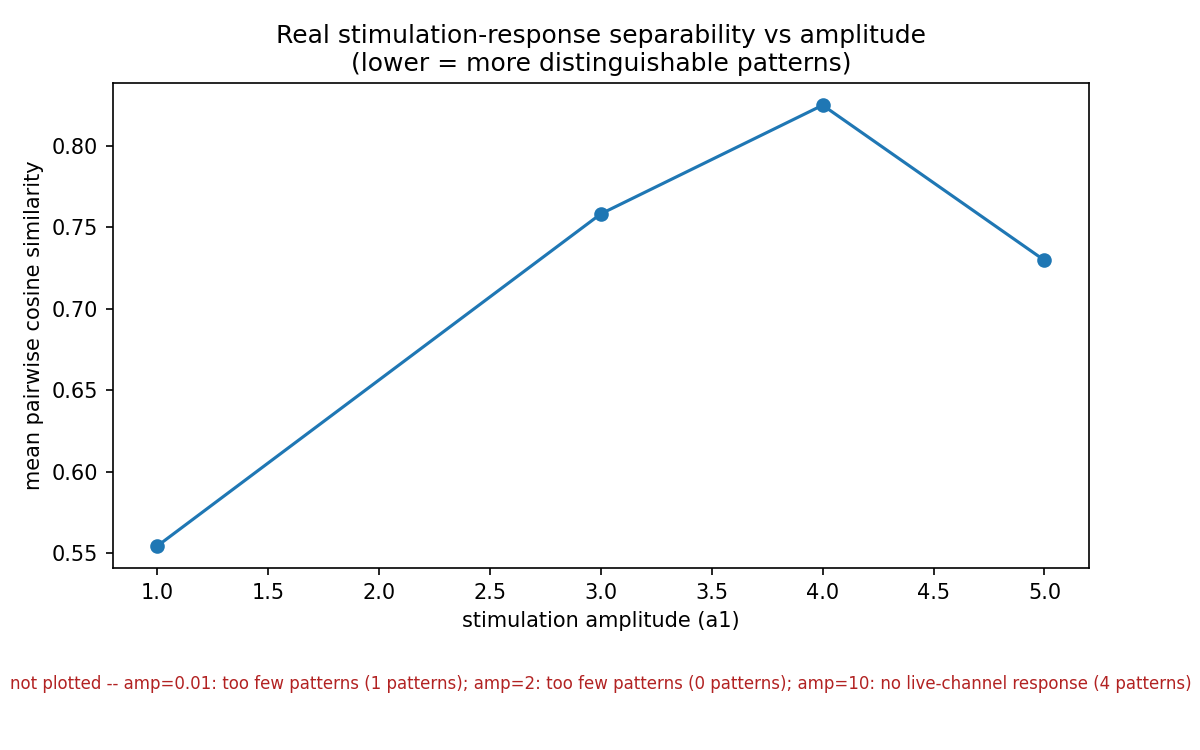
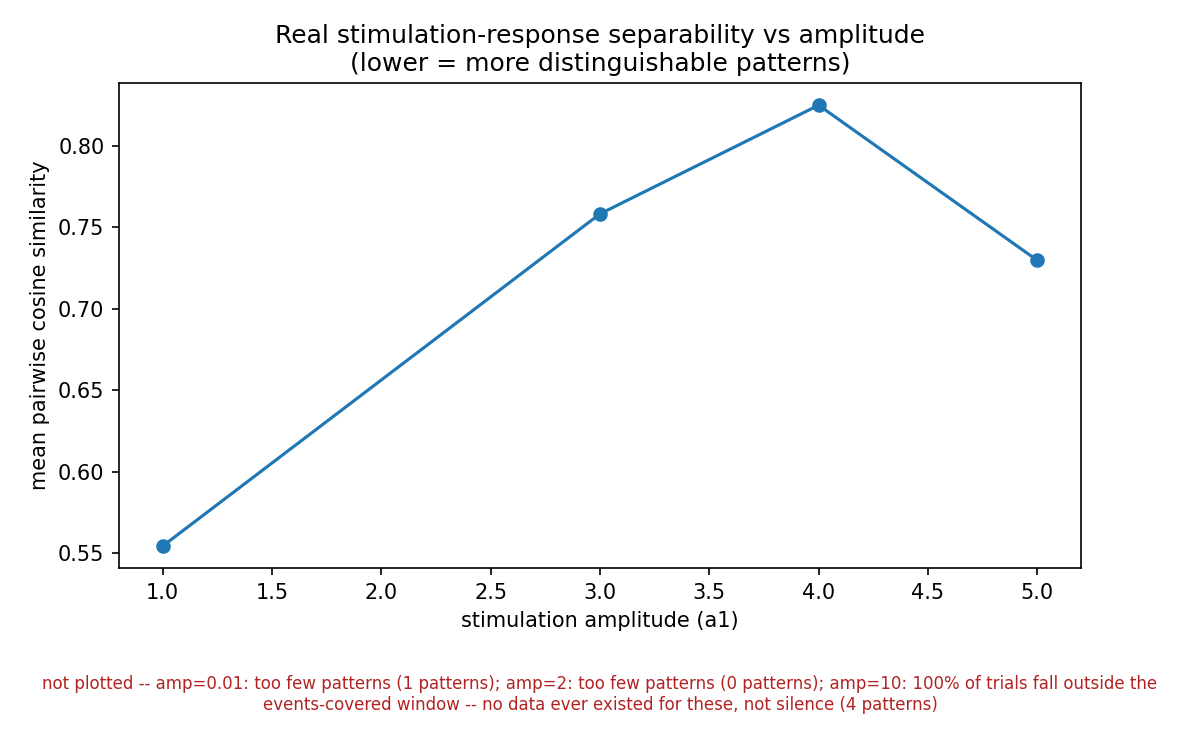
Add blanking_check.py; correct amp-10 finding, it's a data gap, not blanking
blanking_check.py looks up raw 30kHz voltage around the amplitude-10
"zero response" stim onsets via fs437_segment_index.parquet (bounded
probe-based binary search per segment, never loading the full raw
table -- some segments run up to 123M rows). Result: zero raw samples
exist for any of the 1,145 trials across all 4 qualifying patterns --
they all occurred 12-13.5h before the recording that produced the
events table even started. Not stimulation-artifact blanking, not
genuine silence -- there's no data of any kind for that window.

amplitude_separability.py now detects and reports this condition
(all-zero-response trials falling outside the events-covered window)
instead of attributing an unverified cause. README corrected to match;
the earlier "likely stimulation-artifact blanking" claim was wrong.

Claude-Session: https://claude.ai/code/session_01MD2uqo9Lq1biQAmck1mQKK

diff --git a/blanking_check.py b/blanking_check.py
@@ -1,0 +1,201 @@
+"""Are the amplitude-10 "zero response" patterns evidence of stimulation-
+artifact blanking, or genuine silence? Check the raw 30kHz voltage traces
+around their stim onsets.
+
+Raw samples are looked up via fs437_segment_index.parquet, never by loading
+fs437_raw.hdf5 in full. The index's (electrode, t_start, t_end) columns give
+a coarse (row_start, row_end) row range per electrode-segment, but segment
+sizes are extremely skewed (median 181 rows, max 123,298,967 -- more than
+half the 238M-row table) and row ranges overlap across electrodes (they're
+positions in a single interleaved table, not a per-electrode partition), so
+reading a whole matching segment is not safe. locate_rows() instead does a
+bounded probe-based binary search within a candidate segment's row range to
+narrow down to the sub-range actually covering the target time window,
+using only small reads (a few thousand rows each), before doing the real
+read.
+"""
+from pathlib import Path
+import numpy as np
+import pandas as pd
+import matplotlib.pyplot as plt
+from load_data import load_events, load_stimulations
+from amplitude_separability import uniform_amplitude_patterns
+
+RAW = Path("fs437_raw.hdf5")
+RAW_KEY = "/fs437_wholelife_raw"
+SEGMENT_INDEX = Path("fs437_segment_index.parquet")
+PRE_S, POST_S = 0.5, 0.5
+MIN_TRIALS = 100
+TARGET_AMP = 10
+EXAMPLES_PER_PATTERN = 5
+PROBE_SIZE = 2000
+MAX_PROBE_ITERS = 25
+FIG = Path("figures/blanking_check.png")
+
+
+def candidate_segments(idx, electrode, center_time):
+    """Segment-index rows for this electrode whose [t_start, t_end] overlaps
+    the [center_time-PRE_S, center_time+POST_S] window."""
+    lo = center_time - pd.Timedelta(seconds=PRE_S)
+    hi = center_time + pd.Timedelta(seconds=POST_S)
+    return idx[(idx["electrode"] == electrode) & (idx["t_start"] <= hi) & (idx["t_end"] >= lo)]
+
+
+def locate_rows(row_start, row_end, target_lo_ns, target_hi_ns):
+    """Bounded probe-based binary search: narrow [row_start, row_end) down to
+    a sub-range likely to contain rows in [target_lo_ns, target_hi_ns], reading
+    only small PROBE_SIZE chunks -- never the full segment."""
+    lo, hi = int(row_start), int(row_end)
+    if hi - lo <= PROBE_SIZE * 3:
+        return lo, hi
+    for _ in range(MAX_PROBE_ITERS):
+        if hi - lo <= PROBE_SIZE * 3:
+            break
+        mid = (lo + hi) // 2
+        probe = pd.read_hdf(RAW, key=RAW_KEY, start=mid, stop=mid + PROBE_SIZE)
+        if len(probe) == 0:
+            break
+        t = probe["time"].values.astype("datetime64[ns]").astype("int64")
+        tmin, tmax = int(t.min()), int(t.max())
+        if tmax < target_lo_ns:
+            lo = mid
+        elif tmin > target_hi_ns:
+            hi = mid
+        else:
+            lo = max(row_start, mid - PROBE_SIZE * 2)
+            hi = min(row_end, mid + PROBE_SIZE * 2)
+            break
+    return lo, hi
+
+
+def raw_window(idx, electrode, center_time):
+    """Raw (time, voltage_uv) samples for one electrode in
+    [center_time-PRE_S, center_time+POST_S], or an empty DataFrame if none
+    exist -- found entirely via the segment index, no full-table scan."""
+    segs = candidate_segments(idx, electrode, center_time)
+    if segs.empty:
+        return pd.DataFrame(columns=["time", "voltage_uv"])
+
+    lo_ns = int((center_time - pd.Timedelta(seconds=PRE_S)).value)
+    hi_ns = int((center_time + pd.Timedelta(seconds=POST_S)).value)
+
+    frames = []
+    for _, seg in segs.iterrows():
+        lo_row, hi_row = locate_rows(seg["row_start"], seg["row_end"], lo_ns, hi_ns)
+        chunk = pd.read_hdf(RAW, key=RAW_KEY, start=lo_row, stop=hi_row)
+        chunk = chunk[chunk["electrode"] == electrode]
+        t_ns = chunk["time"].values.astype("datetime64[ns]").astype("int64")
+        chunk = chunk[(t_ns >= lo_ns) & (t_ns <= hi_ns)]
+        if len(chunk):
+            frames.append(chunk[["time", "voltage_uv"]])
+    if not frames:
+        return pd.DataFrame(columns=["time", "voltage_uv"])
+    return pd.concat(frames).sort_values("time")
+
+
+def nearest_coverage_gap(idx, electrode, center_time):
+    """How far away is the nearest raw data this electrode actually has,
+    relative to center_time? Used to characterize a total miss."""
+    e = idx[idx["electrode"] == electrode]
+    if e.empty:
+        return None
+    before = e[e["t_end"] <= center_time]
+    after = e[e["t_start"] >= center_time]
+    gap_before = (center_time - before["t_end"].max()) if len(before) else None
+    gap_after = (after["t_start"].min() - center_time) if len(after) else None
+    return gap_before, gap_after
+
+
+def classify(pre, post):
+    """Saturated/clipped vs flat-at-baseline, from raw sample stats."""
+    pre_v, post_v = pre["voltage_uv"].values, post["voltage_uv"].values
+    pre_absmax = np.abs(pre_v).max() if len(pre_v) else np.nan
+    post_absmax = np.abs(post_v).max() if len(post_v) else np.nan
+    # repeated identical extreme values is the clipping signature; a healthy
+    # signal has no exact repeats at its extremes
+    post_clip_frac = 0.0
+    if len(post_v):
+        extreme = np.abs(post_v) >= 0.95 * post_absmax
+        post_clip_frac = float((pd.Series(post_v[extreme]).duplicated(keep=False)).mean()) if extreme.sum() > 1 else 0.0
+    if post_absmax > 3 * pre_absmax and post_clip_frac > 0.3:
+        return "saturated/clipped (blanking)"
+    if post_absmax <= 2 * pre_absmax:
+        return "flat at baseline (genuine silence)"
+    return "ambiguous"
+
+
+def main():
+    idx = pd.read_parquet(SEGMENT_INDEX)
+    ev = load_events().sort_values("time_of_event")
+    t0, t1 = ev["time_of_event"].min(), ev["time_of_event"].max()
+    print(f"events-covered window: {t0} to {t1}")
+    print(f"raw-data-covered window (segment index): "
+          f"{idx['t_start'].min()} to {idx['t_end'].max()}\n")
+
+    st = load_stimulations()
+    groups = uniform_amplitude_patterns(st)
+    sub = groups[groups["amp"] == TARGET_AMP]
+    counts = sub["pattern"].value_counts()
+    qualifying = counts[counts >= MIN_TRIALS]
+
+    examples = []
+    for pat, n in qualifying.items():
+        times = pd.Series(sub.index[sub["pattern"] == pat]).sort_values()
+        electrodes = list(pat)
+        n_outside = int(((times < t0) | (times > t1)).sum())
+        print(f"pattern {pat} (n={n}): {n_outside}/{n} trials "
+              f"({n_outside/n*100:.1f}%) fall outside the events-covered window")
+
+        found_any = False
+        for stim_time in times.iloc[:EXAMPLES_PER_PATTERN]:
+            for e in electrodes:
+                win = raw_window(idx, e, stim_time)
+                if len(win):
+                    found_any = True
+                    pre = win[win["time"] < stim_time]
+                    post = win[win["time"] >= stim_time]
+                    verdict = classify(pre, post)
+                    print(f"  ch{e} @ {stim_time}: {len(pre)} pre / {len(post)} post samples -> {verdict}")
+                    examples.append((pat, e, stim_time, pre, post, verdict))
+
+        if not found_any:
+            gap_b, gap_a = nearest_coverage_gap(idx, electrodes[0], times.iloc[0])
+            print(f"  NO raw samples found for any of the first {EXAMPLES_PER_PATTERN} trials, "
+                  f"any electrode in {pat}")
+            print(f"  nearest raw coverage for ch{electrodes[0]}: "
+                  f"{gap_b} before, {gap_a} after the first stim onset")
+        print()
+
+    if not examples:
+        print(f"CONCLUSION: no raw voltage data exists for any amplitude-{TARGET_AMP} "
+              f"qualifying-pattern trial. All {qualifying.sum()} trials across "
+              f"{len(qualifying)} patterns fall in a pre-recording window "
+              f"(stim log starts {st['time_of_stim'].min()}, events/raw data start "
+              f"{t0}) -- roughly 12-13.5 hours before the recording that produced "
+              f"the events table even began. This is not evidence of stimulation-"
+              f"artifact blanking or of genuine biological silence -- neither claim "
+              f"can be assessed, because there is no data of any kind (spike events "
+              f"or raw voltage) covering these stim onsets. The earlier "
+              f"'stimulation-artifact blanking' explanation in README.md is wrong "
+              f"and should be corrected.")
+        return []
+
+    fig, axes = plt.subplots(len(examples), 1, figsize=(9, 2.2 * len(examples)), squeeze=False)
+    for ax, (pat, e, stim_time, pre, post, verdict) in zip(axes[:, 0], examples):
+        for df, label in [(pre, "pre"), (post, "post")]:
+            t_rel = (df["time"] - stim_time).dt.total_seconds()
+            ax.plot(t_rel, df["voltage_uv"], lw=0.5, label=label)
+        ax.axvline(0, color="red", ls="--", lw=0.8)
+        ax.set_title(f"{pat} ch{e} @ {stim_time} -- {verdict}", fontsize=9)
+        ax.set_ylabel("uV")
+        ax.legend(fontsize=7)
+    axes[-1, 0].set_xlabel("time relative to stim onset (s)")
+    fig.tight_layout()
+    FIG.parent.mkdir(exist_ok=True)
+    fig.savefig(FIG, dpi=150)
+    print(f"\nsaved {FIG}")
+    return examples
+
+
+if __name__ == "__main__":
+    main()

diff --git a/amplitude_separability.py b/amplitude_separability.py
@@ -21,6 +21,7 @@ here since there's no model).
 """
 from pathlib import Path
 import numpy as np
+import pandas as pd
 import matplotlib.pyplot as plt
 from load_data import load_events, load_stimulations
 from pattern_response import psth, LIVE
@@ -63,6 +64,7 @@ def main():
     st = load_stimulations()
     ev_ns = ev["time_of_event"].values.astype("datetime64[ns]").astype("int64")
     ev_ch = ev["electrode"].values
+    t0, t1 = ev["time_of_event"].min(), ev["time_of_event"].max()
 
     groups = uniform_amplitude_patterns(st)
 
@@ -90,14 +92,26 @@ def main():
         n_zero = int((vecs.sum(axis=1) == 0).sum())
         if n_zero:
             # A pattern with literally zero spikes on every live channel across
-            # 100+ trials isn't "distinguishable" -- it's absent signal (likely
-            # stimulation-artifact blanking at this amplitude). Cosine similarity
-            # against an all-zero vector is a degenerate 0/eps -> 0, which would
-            # misleadingly read as "highly separable" if plotted at face value.
+            # 100+ trials isn't "distinguishable" -- it's absent signal. Cosine
+            # similarity against an all-zero vector is a degenerate 0/eps -> 0,
+            # which would misleadingly read as "highly separable" if plotted at
+            # face value. Check whether this is a real in-recording silence or
+            # just trials that predate/postdate the events-covered window
+            # entirely (see blanking_check.py, which found exactly this for
+            # amplitude 10: 100% of trials fell ~12-13.5h before recording
+            # start, so there was never any data to have shown a response).
+            all_times = pd.Series(sub.index[sub["pattern"].isin(qualifying.index)])
+            outside = int(((all_times < t0) | (all_times > t1)).sum())
+            if outside == len(all_times):
+                cause = "100% of trials fall outside the events-covered window -- no data ever existed for these, not silence"
+            elif outside:
+                cause = f"{outside}/{len(all_times)} trials fall outside the events-covered window -- see blanking_check.py before trusting this as a response finding"
+            else:
+                cause = "all trials are within the events-covered window -- a genuine in-recording zero, worth a blanking_check.py-style raw-trace look"
             print(f"  WARNING: {n_zero}/{len(qualifying)} patterns have all-zero response "
                   f"vectors (no live-channel spikes in 0.5s post-onset, across 100+ trials "
-                  f"each) -- excluding this amplitude from the plot, not a real separability result")
-            results.append((amp, None, len(qualifying), "no live-channel response"))
+                  f"each) -- {cause} -- excluding this amplitude from the plot")
+            results.append((amp, None, len(qualifying), cause))
             continue
 
         mean_cos = mean_pairwise_cosine(vecs)

diff --git a/README.md b/README.md
@@ -154,13 +154,23 @@ clear amplitude-dependent trend across the range where enough patterns
 exist to compare. Amplitudes 0.01 and 2 had too few qualifying patterns (1
 and 0) for a pairwise result. **Amplitude 10 showed zero measurable
 response**: all 4 qualifying patterns had exactly zero live-channel spikes
-in the 0.5s window after onset, across 100+ trials each, despite overall
-recording activity being above average during that period. That's not
+in the 0.5s window after onset, across 100+ trials each. That's not
 evidence of perfect separability — a naive cosine calculation would
-misleadingly read 0.000 "similarity" as "most distinguishable" — it's most
-likely stimulation-artifact blanking at the highest current overwhelming
-spike detection past the measurement window, and it's excluded from the
-result rather than reported at face value.
+misleadingly read 0.000 "similarity" as "most distinguishable" — so it's
+excluded from the result rather than reported at face value.
+
+An initial hypothesis was stimulation-artifact blanking at the highest
+current. `blanking_check.py` checked this against the raw 30kHz voltage
+(looked up via `fs437_segment_index.parquet`, never loading the full raw
+table) and found something more basic: **all 1,145 trials across all 4
+amplitude-10 patterns occurred 12–13.5 hours before the recording that
+produced the events table even started** — there is no raw voltage data of
+any kind covering these stim onsets either, confirmed via the segment
+index's own coverage bounds. This isn't stimulation-artifact blanking and
+it isn't genuine biological silence — neither claim is assessable, because
+there's no data at all for this window. `amplitude_separability.py` now
+checks for and flags this condition explicitly rather than attributing a
+cause to it.
 
 A caveat that shaped the whole analysis: **34% of real stimulation events
 (55,297 of 161,638) deliver more than one amplitude simultaneously** across
@@ -299,6 +309,7 @@ evaluate.py / eval_matched.py / eval_latent.py
                         → real-vs-generated comparison (matched-slice)
 pattern_response.py     → real stimulation-response fingerprints
 amplitude_separability.py → real stimulation-response separability vs. amplitude
+blanking_check.py       → raw-trace check on amplitude_separability.py's zero-response case
 test_cond_response.py   → CondCloneLSTM's simulated stimulation response
 plasticity.py           → reward-gated B/C discrimination readout
 maze.py                 → maze feasibility check + negative learning result
